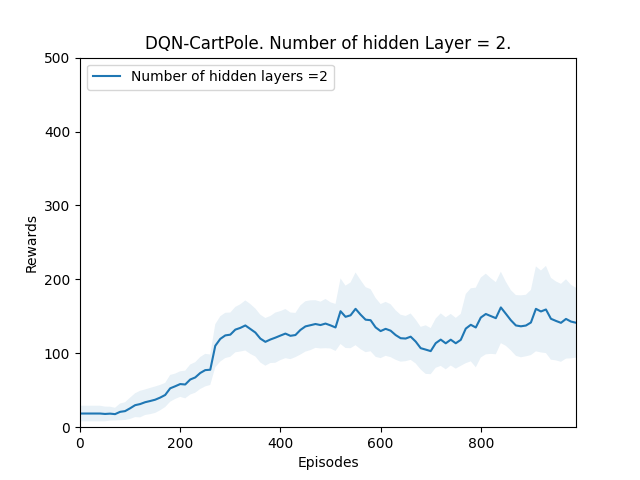
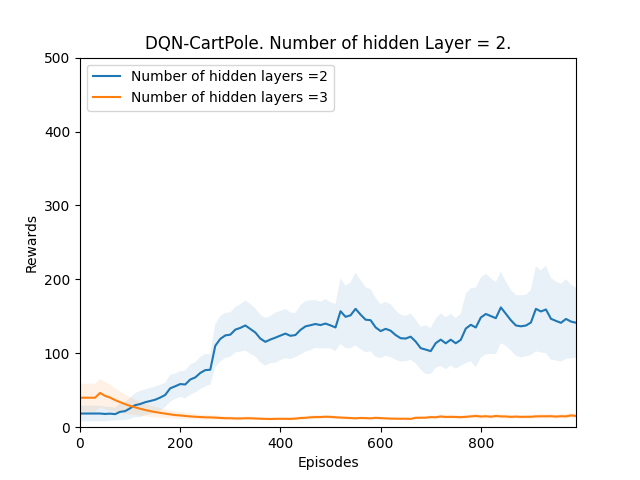
hidden layer validation

Changed region(s): [[0.125, 0.7812, 0.9062, 0.875], [0.125, 0.1875, 0.5312, 0.2188]]

diff --git a/Performance/hidden_layer/plot.py b/Performance/hidden_layer/plot.py
@@ -6,13 +6,13 @@ from operator import sub
 #sns.set()
 
 orange = "#fe8112"
-plot_title = "DQN-CartPole. Number of hidden Layer = 2."
+plot_title = "DQN-CartPole. Varrying number of hidden layers."
 beta = 0.88
 TAU0_ = "0001"
-HIDDEN_LAYERS = [2] #[32, 64, 128, 256]
-MINI_BATCH_COL = ['#f700ff', '#0000ff', '#00ff44', '#d83132']
+HIDDEN_LAYERS = [1, 2, 3, 4] #[32, 64, 128, 256]
+MINI_BATCH_COL = ['hotpink', 'darkslateblue', 'springgreen', 'gold']
 col_names = ['Episode', 'mean_score', 'std_dev']
-save_plot = "hidden_layer_2.png"
+save_plot = "hidden_layer.png"
 for i in range(len(HIDDEN_LAYERS)):
     read_performance="hidden_layer_"+str(HIDDEN_LAYERS[i])+".csv"
     data = pd.read_csv(read_performance, names=col_names)
@@ -33,8 +33,8 @@ for i in range(len(HIDDEN_LAYERS)):
     plt.xlabel('Episodes')
     plt.ylabel('Rewards')
     plt.title(plot_title)
-    plt.plot(episode,score, label="Number of hidden layers ="+str(HIDDEN_LAYERS[i])) #, color = MINI_BATCH_COL[i])
-    plt.fill_between(episode, y_min, y_max, alpha=0.1)
+    plt.plot(episode,score, label="Number of hidden layers ="+str(HIDDEN_LAYERS[i]), color = MINI_BATCH_COL[i])
+    plt.fill_between(episode, y_min, y_max, alpha=0.1, color = MINI_BATCH_COL[i])
 #############################################################################
 plt.legend(loc="upper left")
 #plt.show()
